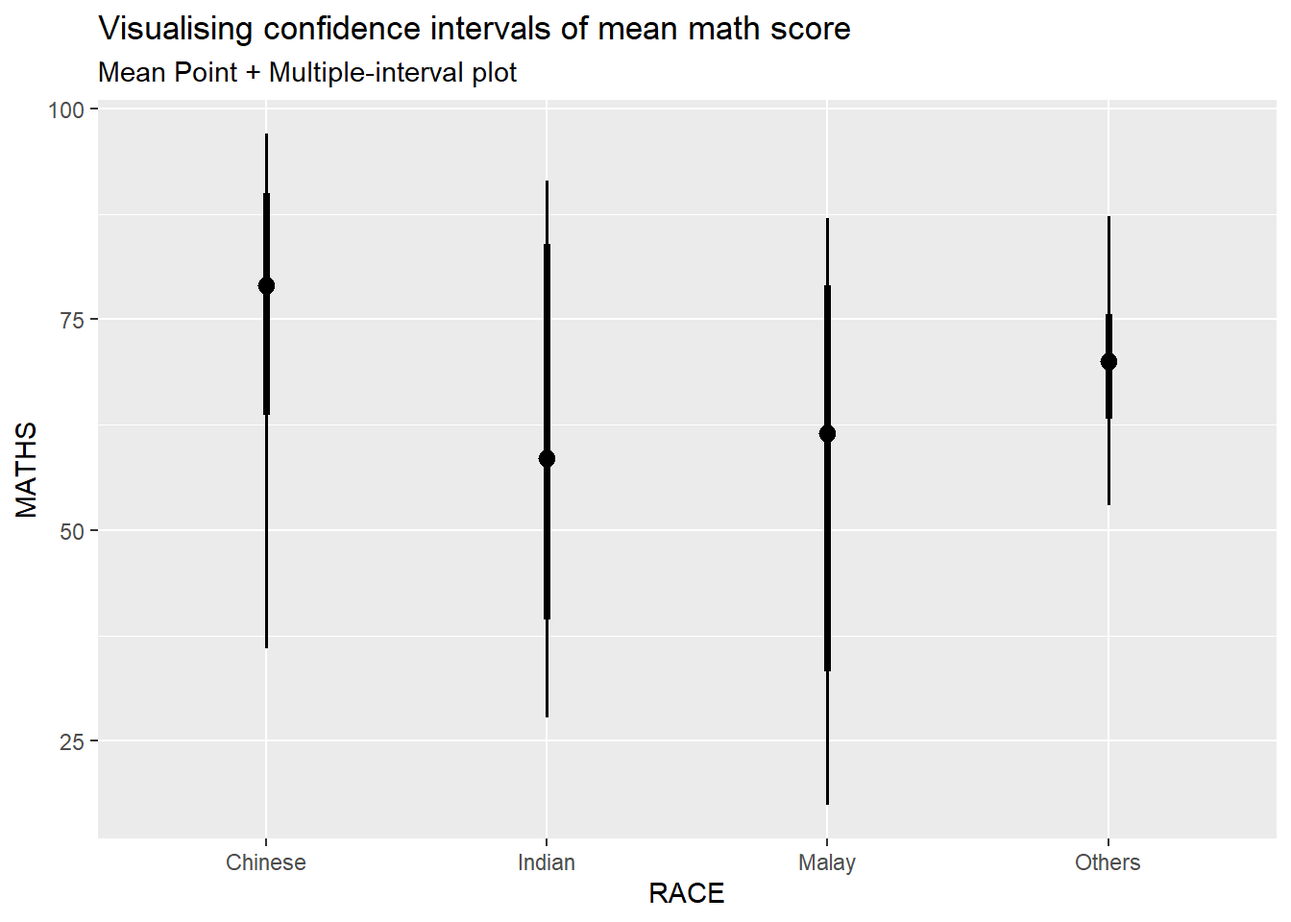
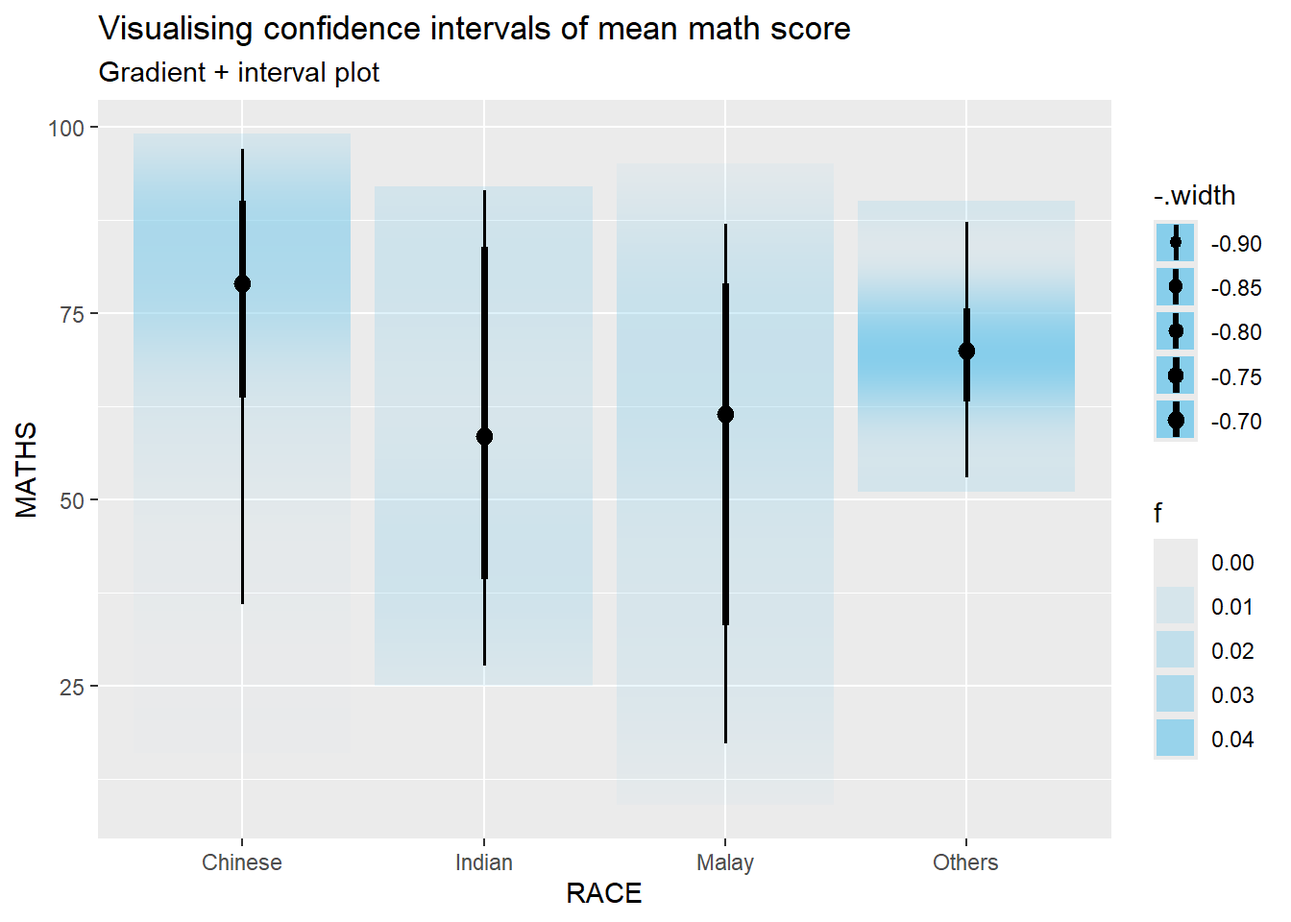
amended

diff --git a/_site/Hands-on_EX/Hands-on_Ex07/Hands-on_Ex07.html b/_site/Hands-on_EX/Hands-on_Ex07/Hands-on_Ex07.html
@@ -202,11 +202,11 @@ pre > code.sourceCode > span > a:first-child::before { text-decoration: underlin
     <ul class="dropdown-menu" aria-labelledby="nav-menu-take-home-exercise">    
         <li>
     <a class="dropdown-item" href="../../Take-home_Ex/Take-home_Ex01/Take-home_Ex01.html">
- <span class="dropdown-text">Take-home Exercise 1</span></a>
+ <span class="dropdown-text">Take-home Exercise 1 phase 1</span></a>
   </li>  
         <li>
     <a class="dropdown-item" href="../../Take-home_Ex/Take-home_Ex02/Take-home_Ex02.html">
- <span class="dropdown-text">Take-home Exercise 2</span></a>
+ <span class="dropdown-text">Take-home Exercise 1 phase 2</span></a>
   </li>  
         <li>
     <a class="dropdown-item" href="../../Take-home_Ex/Take-home_Ex03/Take-home_Ex03.html">
@@ -299,7 +299,7 @@ pre > code.sourceCode > span > a:first-child::before { text-decoration: underlin
     <div>
     <div class="quarto-title-meta-heading">Modified</div>
     <div class="quarto-title-meta-contents">
-      <p class="date-modified">May 7, 2025</p>
+      <p class="date-modified">May 8, 2025</p>
     </div>
   </div>
     
@@ -664,12 +664,12 @@ Things to learn from the above code chunk
 <div class="container-fluid crosstalk-bscols">
 <div class="row">
 <div class="col-xs-4">
-<div class="plotly html-widget html-fill-item" id="htmlwidget-e3760944272059cb3ee2" style="width:100%;height:400px;"></div>
-<script type="application/json" data-for="htmlwidget-e3760944272059cb3ee2">{"x":{"data":[{"x":[1,3,4,2],"y":[76.507772020725383,60.666666666666664,57.444444444444443,69.666666666666671],"text":"","key":["1","2","3","4"],"type":"scatter","mode":"lines","opacity":0.90000000000000002,"line":{"color":"transparent"},"error_y":{"array":[2.9214818033282057,18.165794029639137,5.2713960499886028,9.7819093228264933],"arrayminus":[2.9214818033282057,18.165794029639137,5.2713960499886028,9.7819093228265004],"type":"data","width":21.333333333333353,"symmetric":false,"color":"rgba(0,0,0,1)"},"set":"SharedDatae88389d1","showlegend":false,"xaxis":"x","yaxis":"y","hoverinfo":"text","_isNestedKey":false,"frame":null},{"x":[1,3,4,2],"y":[76.507772020725383,60.666666666666664,57.444444444444443,69.666666666666671],"text":["Race: Chinese <br>N: 193 <br>Avg. Scores: 76.51 <br>95% CI:[ 73.59 , 79.43 ]","Race: Indian <br>N: 12 <br>Avg. Scores: 60.67 <br>95% CI:[ 42.5 , 78.83 ]","Race: Malay <br>N: 108 <br>Avg. Scores: 57.44 <br>95% CI:[ 52.17 , 62.72 ]","Race: Others <br>N: 9 <br>Avg. Scores: 69.67 <br>95% CI:[ 59.88 , 79.45 ]"],"key":["1","2","3","4"],"type":"scatter","mode":"markers","marker":{"autocolorscale":false,"color":"rgba(255,0,0,1)","opacity":1,"size":5.6692913385826778,"symbol":"circle","line":{"width":1.8897637795275593,"color":"rgba(255,0,0,1)"}},"hoveron":"points","set":"SharedDatae88389d1","showlegend":false,"xaxis":"x","yaxis":"y","hoverinfo":"text","_isNestedKey":false,"frame":null}],"layout":{"margin":{"t":43.762557077625573,"r":7.3059360730593621,"b":50.845818773908846,"l":37.260273972602747},"font":{"color":"rgba(0,0,0,1)","family":"","size":14.611872146118724},"title":{"text":"99% Confidence interval of average /<br>maths scores by race","font":{"color":"rgba(0,0,0,1)","family":"","size":17.534246575342465},"x":0,"xref":"paper"},"xaxis":{"domain":[0,1],"automargin":true,"type":"linear","autorange":false,"range":[0.40000000000000002,4.5999999999999996],"tickmode":"array","ticktext":["Chinese","Others","Indian","Malay"],"tickvals":[1,2,3,4],"categoryorder":"array","categoryarray":["Chinese","Others","Indian","Malay"],"nticks":null,"ticks":"","tickcolor":null,"ticklen":3.6529680365296811,"tickwidth":0,"showticklabels":true,"tickfont":{"color":"rgba(77,77,77,1)","family":"","size":11.68949771689498},"tickangle":-45,"showline":false,"linecolor":null,"linewidth":0,"showgrid":true,"gridcolor":"rgba(235,235,235,1)","gridwidth":0.66417600664176002,"zeroline":false,"anchor":"y","title":{"text":"Race","font":{"color":"rgba(0,0,0,1)","family":"","size":14.611872146118724}},"hoverformat":".2f"},"yaxis":{"domain":[0,1],"automargin":true,"type":"linear","autorange":false,"range":[40.653487469404247,81.295961157116452],"tickmode":"array","ticktext":["50","60","70","80"],"tickvals":[50,60,70,80],"categoryorder":"array","categoryarray":["50","60","70","80"],"nticks":null,"ticks":"","tickcolor":null,"ticklen":3.6529680365296811,"tickwidth":0,"showticklabels":true,"tickfont":{"color":"rgba(77,77,77,1)","family":"","size":11.68949771689498},"tickangle":-0,"showline":false,"linecolor":null,"linewidth":0,"showgrid":true,"gridcolor":"rgba(235,235,235,1)","gridwidth":0.66417600664176002,"zeroline":false,"anchor":"x","title":{"text":"Average Scores","font":{"color":"rgba(0,0,0,1)","family":"","size":14.611872146118724}},"hoverformat":".2f"},"shapes":[{"type":"rect","fillcolor":null,"line":{"color":null,"width":0,"linetype":[]},"yref":"paper","xref":"paper","x0":0,"x1":1,"y0":0,"y1":1}],"showlegend":false,"legend":{"bgcolor":null,"bordercolor":null,"borderwidth":0,"font":{"color":"rgba(0,0,0,1)","family":"","size":11.68949771689498}},"hovermode":"closest","barmode":"relative","dragmode":"zoom"},"config":{"doubleClick":"reset","modeBarButtonsToAdd":["hoverclosest","hovercompare"],"showSendToCloud":false},"source":"A","attrs":{"c63811105d12":{"x":{},"ymin":{},"ymax":{},"type":"scatter"},"c6384efd41dc":{"x":{},"y":{},"text":{}}},"cur_data":"c63811105d12","visdat":{"c63811105d12":["function (y) ","x"],"c6384efd41dc":["function (y) ","x"]},"highlight":{"on":"plotly_click","persistent":false,"dynamic":false,"selectize":false,"opacityDim":0.20000000000000001,"selected":{"opacity":1},"debounce":0,"ctGroups":["SharedDatae88389d1"]},"shinyEvents":["plotly_hover","plotly_click","plotly_selected","plotly_relayout","plotly_brushed","plotly_brushing","plotly_clickannotation","plotly_doubleclick","plotly_deselect","plotly_afterplot","plotly_sunburstclick"],"base_url":"https://plot.ly"},"evals":[],"jsHooks":[]}</script>
+<div class="plotly html-widget html-fill-item" id="htmlwidget-bc5137b9450fcd9c2f9f" style="width:100%;height:400px;"></div>
+<script type="application/json" data-for="htmlwidget-bc5137b9450fcd9c2f9f">{"x":{"data":[{"x":[1,3,4,2],"y":[76.507772020725383,60.666666666666664,57.444444444444443,69.666666666666671],"text":"","key":["1","2","3","4"],"type":"scatter","mode":"lines","opacity":0.90000000000000002,"line":{"color":"transparent"},"error_y":{"array":[2.9214818033282057,18.165794029639137,5.2713960499886028,9.7819093228264933],"arrayminus":[2.9214818033282057,18.165794029639137,5.2713960499886028,9.7819093228265004],"type":"data","width":21.333333333333353,"symmetric":false,"color":"rgba(0,0,0,1)"},"set":"SharedData045dd079","showlegend":false,"xaxis":"x","yaxis":"y","hoverinfo":"text","_isNestedKey":false,"frame":null},{"x":[1,3,4,2],"y":[76.507772020725383,60.666666666666664,57.444444444444443,69.666666666666671],"text":["Race: Chinese <br>N: 193 <br>Avg. Scores: 76.51 <br>95% CI:[ 73.59 , 79.43 ]","Race: Indian <br>N: 12 <br>Avg. Scores: 60.67 <br>95% CI:[ 42.5 , 78.83 ]","Race: Malay <br>N: 108 <br>Avg. Scores: 57.44 <br>95% CI:[ 52.17 , 62.72 ]","Race: Others <br>N: 9 <br>Avg. Scores: 69.67 <br>95% CI:[ 59.88 , 79.45 ]"],"key":["1","2","3","4"],"type":"scatter","mode":"markers","marker":{"autocolorscale":false,"color":"rgba(255,0,0,1)","opacity":1,"size":5.6692913385826778,"symbol":"circle","line":{"width":1.8897637795275593,"color":"rgba(255,0,0,1)"}},"hoveron":"points","set":"SharedData045dd079","showlegend":false,"xaxis":"x","yaxis":"y","hoverinfo":"text","_isNestedKey":false,"frame":null}],"layout":{"margin":{"t":43.762557077625573,"r":7.3059360730593621,"b":50.845818773908846,"l":37.260273972602747},"font":{"color":"rgba(0,0,0,1)","family":"","size":14.611872146118724},"title":{"text":"99% Confidence interval of average /<br>maths scores by race","font":{"color":"rgba(0,0,0,1)","family":"","size":17.534246575342465},"x":0,"xref":"paper"},"xaxis":{"domain":[0,1],"automargin":true,"type":"linear","autorange":false,"range":[0.40000000000000002,4.5999999999999996],"tickmode":"array","ticktext":["Chinese","Others","Indian","Malay"],"tickvals":[1,2,3,4],"categoryorder":"array","categoryarray":["Chinese","Others","Indian","Malay"],"nticks":null,"ticks":"","tickcolor":null,"ticklen":3.6529680365296811,"tickwidth":0,"showticklabels":true,"tickfont":{"color":"rgba(77,77,77,1)","family":"","size":11.68949771689498},"tickangle":-45,"showline":false,"linecolor":null,"linewidth":0,"showgrid":true,"gridcolor":"rgba(235,235,235,1)","gridwidth":0.66417600664176002,"zeroline":false,"anchor":"y","title":{"text":"Race","font":{"color":"rgba(0,0,0,1)","family":"","size":14.611872146118724}},"hoverformat":".2f"},"yaxis":{"domain":[0,1],"automargin":true,"type":"linear","autorange":false,"range":[40.653487469404247,81.295961157116452],"tickmode":"array","ticktext":["50","60","70","80"],"tickvals":[50,60,70,80],"categoryorder":"array","categoryarray":["50","60","70","80"],"nticks":null,"ticks":"","tickcolor":null,"ticklen":3.6529680365296811,"tickwidth":0,"showticklabels":true,"tickfont":{"color":"rgba(77,77,77,1)","family":"","size":11.68949771689498},"tickangle":-0,"showline":false,"linecolor":null,"linewidth":0,"showgrid":true,"gridcolor":"rgba(235,235,235,1)","gridwidth":0.66417600664176002,"zeroline":false,"anchor":"x","title":{"text":"Average Scores","font":{"color":"rgba(0,0,0,1)","family":"","size":14.611872146118724}},"hoverformat":".2f"},"shapes":[{"type":"rect","fillcolor":null,"line":{"color":null,"width":0,"linetype":[]},"yref":"paper","xref":"paper","x0":0,"x1":1,"y0":0,"y1":1}],"showlegend":false,"legend":{"bgcolor":null,"bordercolor":null,"borderwidth":0,"font":{"color":"rgba(0,0,0,1)","family":"","size":11.68949771689498}},"hovermode":"closest","barmode":"relative","dragmode":"zoom"},"config":{"doubleClick":"reset","modeBarButtonsToAdd":["hoverclosest","hovercompare"],"showSendToCloud":false},"source":"A","attrs":{"a94c6819105d":{"x":{},"ymin":{},"ymax":{},"type":"scatter"},"a94c11b61271":{"x":{},"y":{},"text":{}}},"cur_data":"a94c6819105d","visdat":{"a94c6819105d":["function (y) ","x"],"a94c11b61271":["function (y) ","x"]},"highlight":{"on":"plotly_click","persistent":false,"dynamic":false,"selectize":false,"opacityDim":0.20000000000000001,"selected":{"opacity":1},"debounce":0,"ctGroups":["SharedData045dd079"]},"shinyEvents":["plotly_hover","plotly_click","plotly_selected","plotly_relayout","plotly_brushed","plotly_brushing","plotly_clickannotation","plotly_doubleclick","plotly_deselect","plotly_afterplot","plotly_sunburstclick"],"base_url":"https://plot.ly"},"evals":[],"jsHooks":[]}</script>
 </div>
 <div class="col-xs-8">
-<div id="htmlwidget-d1ff6ed2748f6dd4f709" style="width:100%;height:auto;" class="datatables html-widget"></div>
-<script type="application/json" data-for="htmlwidget-d1ff6ed2748f6dd4f709">{"x":{"crosstalkOptions":{"key":["1","2","3","4"],"group":"SharedDatae88389d1"},"filter":"none","vertical":false,"data":[["Chinese","Indian","Malay","Others"],[193,12,108,9],[76.50777202072538,60.66666666666666,57.44444444444444,69.66666666666667],[15.69040284264306,23.35237318418266,21.13478478068458,10.72380529476361],[1.132357288111705,7.041005437844626,2.043176763561474,3.791437722025775]],"container":"<table class=\"compact\">\n  <thead>\n    <tr>\n      <th> <\/th>\n      <th>No. of pupils<\/th>\n      <th>Avg Scores<\/th>\n      <th>Std Dev<\/th>\n      <th>Std Error<\/th>\n    <\/tr>\n  <\/thead>\n<\/table>","options":{"pageLength":10,"scrollX":true,"columnDefs":[{"targets":2,"render":"function(data, type, row, meta) {\n    return type !== 'display' ? data : DTWidget.formatRound(data, 2, 3, \",\", \".\", null);\n  }"},{"targets":3,"render":"function(data, type, row, meta) {\n    return type !== 'display' ? data : DTWidget.formatRound(data, 2, 3, \",\", \".\", null);\n  }"},{"targets":4,"render":"function(data, type, row, meta) {\n    return type !== 'display' ? data : DTWidget.formatRound(data, 2, 3, \",\", \".\", null);\n  }"},{"className":"dt-right","targets":[1,2,3,4]},{"orderable":false,"targets":0},{"name":"RACE","targets":0},{"name":"n","targets":1},{"name":"mean","targets":2},{"name":"sd","targets":3},{"name":"se","targets":4}],"order":[],"autoWidth":false,"orderClasses":false},"selection":{"mode":"multiple","selected":null,"target":"row","selectable":null}},"evals":["options.columnDefs.0.render","options.columnDefs.1.render","options.columnDefs.2.render"],"jsHooks":[]}</script>
+<div id="htmlwidget-64ffa2680ae2a4fc0a07" style="width:100%;height:auto;" class="datatables html-widget"></div>
+<script type="application/json" data-for="htmlwidget-64ffa2680ae2a4fc0a07">{"x":{"crosstalkOptions":{"key":["1","2","3","4"],"group":"SharedData045dd079"},"filter":"none","vertical":false,"data":[["Chinese","Indian","Malay","Others"],[193,12,108,9],[76.50777202072538,60.66666666666666,57.44444444444444,69.66666666666667],[15.69040284264306,23.35237318418266,21.13478478068458,10.72380529476361],[1.132357288111705,7.041005437844626,2.043176763561474,3.791437722025775]],"container":"<table class=\"compact\">\n  <thead>\n    <tr>\n      <th> <\/th>\n      <th>No. of pupils<\/th>\n      <th>Avg Scores<\/th>\n      <th>Std Dev<\/th>\n      <th>Std Error<\/th>\n    <\/tr>\n  <\/thead>\n<\/table>","options":{"pageLength":10,"scrollX":true,"columnDefs":[{"targets":2,"render":"function(data, type, row, meta) {\n    return type !== 'display' ? data : DTWidget.formatRound(data, 2, 3, \",\", \".\", null);\n  }"},{"targets":3,"render":"function(data, type, row, meta) {\n    return type !== 'display' ? data : DTWidget.formatRound(data, 2, 3, \",\", \".\", null);\n  }"},{"targets":4,"render":"function(data, type, row, meta) {\n    return type !== 'display' ? data : DTWidget.formatRound(data, 2, 3, \",\", \".\", null);\n  }"},{"className":"dt-right","targets":[1,2,3,4]},{"orderable":false,"targets":0},{"name":"RACE","targets":0},{"name":"n","targets":1},{"name":"mean","targets":2},{"name":"sd","targets":3},{"name":"se","targets":4}],"order":[],"autoWidth":false,"orderClasses":false},"selection":{"mode":"multiple","selected":null,"target":"row","selectable":null}},"evals":["options.columnDefs.0.render","options.columnDefs.1.render","options.columnDefs.2.render"],"jsHooks":[]}</script>
 </div>
 </div>
 </div>
@@ -772,113 +772,23 @@ Note
 <section id="visualizing-the-uncertainty-of-point-estimates-ggdist-methods-1" class="level3">
 <h3 class="anchored" data-anchor-id="visualizing-the-uncertainty-of-point-estimates-ggdist-methods-1"><strong>7.4.2 Visualizing the uncertainty of point estimates: ggdist methods</strong></h3>
 <p>showing 95% and 99% confidence intervals.</p>
-<div class="tabset-margin-container"></div><div class="panel-tabset">
-<ul class="nav nav-tabs" role="tablist"><li class="nav-item" role="presentation"><a class="nav-link active" id="tabset-7-1-tab" data-bs-toggle="tab" data-bs-target="#tabset-7-1" role="tab" aria-controls="tabset-7-1" aria-selected="true">The code chunk</a></li><li class="nav-item" role="presentation"><a class="nav-link" id="tabset-7-2-tab" data-bs-toggle="tab" data-bs-target="#tabset-7-2" role="tab" aria-controls="tabset-7-2" aria-selected="false">The Plot</a></li></ul>
-<div class="tab-content">
-<div id="tabset-7-1" class="tab-pane active" role="tabpanel" aria-labelledby="tabset-7-1-tab">
 <div class="cell">
 <div class="sourceCode cell-code" id="cb11"><pre class="sourceCode r code-with-copy"><code class="sourceCode r"><span id="cb11-1"><a href="#cb11-1" aria-hidden="true" tabindex="-1"></a>exam <span class="sc">%&gt;%</span></span>
-<span id="cb11-2"><a href="#cb11-2" aria-hidden="true" tabindex="-1"></a>  <span class="fu">ggplot</span>(<span class="fu">aes</span>(<span class="at">x =</span> RACE, </span>
-<span id="cb11-3"><a href="#cb11-3" aria-hidden="true" tabindex="-1"></a>             <span class="at">y =</span> MATHS)) <span class="sc">+</span></span>
-<span id="cb11-4"><a href="#cb11-4" aria-hidden="true" tabindex="-1"></a>  <span class="fu">stat_pointinterval</span>(</span>
-<span id="cb11-5"><a href="#cb11-5" aria-hidden="true" tabindex="-1"></a>    <span class="at">show.legend =</span> <span class="cn">FALSE</span>) <span class="sc">+</span>   </span>
-<span id="cb11-6"><a href="#cb11-6" aria-hidden="true" tabindex="-1"></a>  <span class="fu">labs</span>(</span>
-<span id="cb11-7"><a href="#cb11-7" aria-hidden="true" tabindex="-1"></a>    <span class="at">title =</span> <span class="st">"Visualising confidence intervals of mean math score"</span>,</span>
-<span id="cb11-8"><a href="#cb11-8" aria-hidden="true" tabindex="-1"></a>    <span class="at">subtitle =</span> <span class="st">"Mean Point + Multiple-interval plot"</span>)</span></code><button title="Copy to Clipboard" class="code-copy-button"><i class="bi"></i></button></pre></div>
-</div>
-</div>
-<div id="tabset-7-2" class="tab-pane" role="tabpanel" aria-labelledby="tabset-7-2-tab">
-<div class="cell">
+<span id="cb11-2"><a href="#cb11-2" aria-hidden="true" tabindex="-1"></a>  <span class="fu">ggplot</span>(<span class="fu">aes</span>(<span class="at">x =</span> RACE, <span class="at">y =</span> MATHS)) <span class="sc">+</span></span>
+<span id="cb11-3"><a href="#cb11-3" aria-hidden="true" tabindex="-1"></a>  <span class="fu">stat_pointinterval</span>(</span>
+<span id="cb11-4"><a href="#cb11-4" aria-hidden="true" tabindex="-1"></a>    <span class="at">.width    =</span> <span class="fu">c</span>(<span class="fl">0.95</span>, <span class="fl">0.99</span>),  <span class="co"># inner = 95%, outer = 99%</span></span>
+<span id="cb11-5"><a href="#cb11-5" aria-hidden="true" tabindex="-1"></a>    <span class="at">.point    =</span> median,         <span class="co"># central estimate = median</span></span>
+<span id="cb11-6"><a href="#cb11-6" aria-hidden="true" tabindex="-1"></a>    <span class="at">.interval =</span> qi              <span class="co"># quantile‐interval for CIs</span></span>
+<span id="cb11-7"><a href="#cb11-7" aria-hidden="true" tabindex="-1"></a>  ) <span class="sc">+</span></span>
+<span id="cb11-8"><a href="#cb11-8" aria-hidden="true" tabindex="-1"></a>  <span class="fu">labs</span>(</span>
+<span id="cb11-9"><a href="#cb11-9" aria-hidden="true" tabindex="-1"></a>    <span class="at">title    =</span> <span class="st">"Visualising confidence intervals of median math score"</span>,</span>
+<span id="cb11-10"><a href="#cb11-10" aria-hidden="true" tabindex="-1"></a>    <span class="at">subtitle =</span> <span class="st">"Median point + 95% &amp; 99% intervals"</span></span>
+<span id="cb11-11"><a href="#cb11-11" aria-hidden="true" tabindex="-1"></a>  ) <span class="sc">+</span></span>
+<span id="cb11-12"><a href="#cb11-12" aria-hidden="true" tabindex="-1"></a>  <span class="fu">theme_minimal</span>()</span></code><button title="Copy to Clipboard" class="code-copy-button"><i class="bi"></i></button></pre></div>
 <div class="cell-output-display">
 <div>
 <figure class="figure">
-<p><img src="Hands-on_Ex07_files/figure-html/unnamed-chunk-17-1.png" class="img-fluid figure-img" width="672"></p>
-</figure>
-</div>
-</div>
-</div>
-</div>
-</div>
-</div>
-<div class="tabset-margin-container"></div><div class="panel-tabset">
-<ul class="nav nav-tabs" role="tablist"><li class="nav-item" role="presentation"><a class="nav-link active" id="tabset-8-1-tab" data-bs-toggle="tab" data-bs-target="#tabset-8-1" role="tab" aria-controls="tabset-8-1" aria-selected="true">95% confidence interval</a></li><li class="nav-item" role="presentation"><a class="nav-link" id="tabset-8-2-tab" data-bs-toggle="tab" data-bs-target="#tabset-8-2" role="tab" aria-controls="tabset-8-2" aria-selected="false">For 99% confidence interval</a></li></ul>
-<div class="tab-content">
-<div id="tabset-8-1" class="tab-pane active" role="tabpanel" aria-labelledby="tabset-8-1-tab">
-<div class="cell">
-<div class="sourceCode cell-code" id="cb12"><pre class="sourceCode r code-with-copy"><code class="sourceCode r"><span id="cb12-1"><a href="#cb12-1" aria-hidden="true" tabindex="-1"></a>p95 <span class="ot">&lt;-</span> <span class="fu">ggplot</span>(exam, <span class="fu">aes</span>(</span>
-<span id="cb12-2"><a href="#cb12-2" aria-hidden="true" tabindex="-1"></a>    <span class="at">x =</span> <span class="fu">reorder</span>(RACE, MATHS, <span class="at">FUN =</span> mean, <span class="at">.desc =</span> <span class="cn">TRUE</span>),</span>
-<span id="cb12-3"><a href="#cb12-3" aria-hidden="true" tabindex="-1"></a>    <span class="at">y =</span> MATHS</span>
-<span id="cb12-4"><a href="#cb12-4" aria-hidden="true" tabindex="-1"></a>  )) <span class="sc">+</span></span>
-<span id="cb12-5"><a href="#cb12-5" aria-hidden="true" tabindex="-1"></a>  <span class="fu">stat_pointinterval</span>(</span>
-<span id="cb12-6"><a href="#cb12-6" aria-hidden="true" tabindex="-1"></a>    <span class="at">.width       =</span> <span class="fl">0.95</span>,      </span>
-<span id="cb12-7"><a href="#cb12-7" aria-hidden="true" tabindex="-1"></a>    <span class="at">point_size   =</span> <span class="fl">1.5</span>,       </span>
-<span id="cb12-8"><a href="#cb12-8" aria-hidden="true" tabindex="-1"></a>    <span class="at">interval_size =</span> <span class="fl">0.5</span>,      </span>
-<span id="cb12-9"><a href="#cb12-9" aria-hidden="true" tabindex="-1"></a>    <span class="at">color        =</span> <span class="st">"red"</span>,     </span>
-<span id="cb12-10"><a href="#cb12-10" aria-hidden="true" tabindex="-1"></a>    <span class="at">fill         =</span> <span class="st">"steelblue"</span>,</span>
-<span id="cb12-11"><a href="#cb12-11" aria-hidden="true" tabindex="-1"></a>    <span class="at">show.legend  =</span> <span class="cn">FALSE</span></span>
-<span id="cb12-12"><a href="#cb12-12" aria-hidden="true" tabindex="-1"></a>  ) <span class="sc">+</span></span>
-<span id="cb12-13"><a href="#cb12-13" aria-hidden="true" tabindex="-1"></a>  <span class="fu">labs</span>(</span>
-<span id="cb12-14"><a href="#cb12-14" aria-hidden="true" tabindex="-1"></a>    <span class="at">x     =</span> <span class="st">"Race"</span>,</span>
-<span id="cb12-15"><a href="#cb12-15" aria-hidden="true" tabindex="-1"></a>    <span class="at">y     =</span> <span class="st">"Maths score"</span>,</span>
-<span id="cb12-16"><a href="#cb12-16" aria-hidden="true" tabindex="-1"></a>    <span class="at">title =</span> <span class="st">"95% CI of mean maths score by race"</span></span>
-<span id="cb12-17"><a href="#cb12-17" aria-hidden="true" tabindex="-1"></a>  ) <span class="sc">+</span></span>
-<span id="cb12-18"><a href="#cb12-18" aria-hidden="true" tabindex="-1"></a>  <span class="fu">theme_minimal</span>()</span>
-<span id="cb12-19"><a href="#cb12-19" aria-hidden="true" tabindex="-1"></a></span>
-<span id="cb12-20"><a href="#cb12-20" aria-hidden="true" tabindex="-1"></a><span class="fu">print</span>(p95)</span></code><button title="Copy to Clipboard" class="code-copy-button"><i class="bi"></i></button></pre></div>
-<div class="cell-output-display">
-<div>
-<figure class="figure">
-<p><img src="Hands-on_Ex07_files/figure-html/unnamed-chunk-18-1.png" class="img-fluid figure-img" width="672"></p>
-</figure>
-</div>
-</div>
-</div>
-</div>
-<div id="tabset-8-2" class="tab-pane" role="tabpanel" aria-labelledby="tabset-8-2-tab">
-<div class="cell">
-<div class="sourceCode cell-code" id="cb13"><pre class="sourceCode r code-with-copy"><code class="sourceCode r"><span id="cb13-1"><a href="#cb13-1" aria-hidden="true" tabindex="-1"></a>p99 <span class="ot">&lt;-</span> <span class="fu">ggplot</span>(exam, <span class="fu">aes</span>(</span>
-<span id="cb13-2"><a href="#cb13-2" aria-hidden="true" tabindex="-1"></a>    <span class="at">x =</span> <span class="fu">reorder</span>(RACE, MATHS, <span class="at">FUN =</span> mean, <span class="at">.desc =</span> <span class="cn">TRUE</span>),</span>
-<span id="cb13-3"><a href="#cb13-3" aria-hidden="true" tabindex="-1"></a>    <span class="at">y =</span> MATHS</span>
-<span id="cb13-4"><a href="#cb13-4" aria-hidden="true" tabindex="-1"></a>  )) <span class="sc">+</span></span>
-<span id="cb13-5"><a href="#cb13-5" aria-hidden="true" tabindex="-1"></a>  <span class="fu">stat_pointinterval</span>(</span>
-<span id="cb13-6"><a href="#cb13-6" aria-hidden="true" tabindex="-1"></a>    <span class="at">.width       =</span> <span class="fl">0.99</span>,      </span>
-<span id="cb13-7"><a href="#cb13-7" aria-hidden="true" tabindex="-1"></a>    <span class="at">point_size   =</span> <span class="fl">1.5</span>,       </span>
-<span id="cb13-8"><a href="#cb13-8" aria-hidden="true" tabindex="-1"></a>    <span class="at">interval_size =</span> <span class="fl">0.5</span>,      </span>
-<span id="cb13-9"><a href="#cb13-9" aria-hidden="true" tabindex="-1"></a>    <span class="at">color        =</span> <span class="st">"red"</span>,     </span>
-<span id="cb13-10"><a href="#cb13-10" aria-hidden="true" tabindex="-1"></a>    <span class="at">fill         =</span> <span class="st">"steelblue"</span>,</span>
-<span id="cb13-11"><a href="#cb13-11" aria-hidden="true" tabindex="-1"></a>    <span class="at">show.legend  =</span> <span class="cn">FALSE</span></span>
-<span id="cb13-12"><a href="#cb13-12" aria-hidden="true" tabindex="-1"></a>  ) <span class="sc">+</span></span>
-<span id="cb13-13"><a href="#cb13-13" aria-hidden="true" tabindex="-1"></a>  <span class="fu">labs</span>(</span>
-<span id="cb13-14"><a href="#cb13-14" aria-hidden="true" tabindex="-1"></a>    <span class="at">x     =</span> <span class="st">"Race"</span>,</span>
-<span id="cb13-15"><a href="#cb13-15" aria-hidden="true" tabindex="-1"></a>    <span class="at">y     =</span> <span class="st">"Maths score"</span>,</span>
-<span id="cb13-16"><a href="#cb13-16" aria-hidden="true" tabindex="-1"></a>    <span class="at">title =</span> <span class="st">"99% CI of mean maths score by race"</span></span>
-<span id="cb13-17"><a href="#cb13-17" aria-hidden="true" tabindex="-1"></a>  ) <span class="sc">+</span></span>
-<span id="cb13-18"><a href="#cb13-18" aria-hidden="true" tabindex="-1"></a>  <span class="fu">theme_minimal</span>()</span>
-<span id="cb13-19"><a href="#cb13-19" aria-hidden="true" tabindex="-1"></a><span class="fu">print</span>(p99)</span></code><button title="Copy to Clipboard" class="code-copy-button"><i class="bi"></i></button></pre></div>
-<div class="cell-output-display">
-<div>
-<figure class="figure">
-<p><img src="Hands-on_Ex07_files/figure-html/unnamed-chunk-19-1.png" class="img-fluid figure-img" width="672"></p>
-</figure>
-</div>
-</div>
-</div>
-</div>
-</div>
-</div>
-<div class="cell">
-<div class="sourceCode cell-code" id="cb14"><pre class="sourceCode r code-with-copy"><code class="sourceCode r"><span id="cb14-1"><a href="#cb14-1" aria-hidden="true" tabindex="-1"></a>exam <span class="sc">%&gt;%</span></span>
-<span id="cb14-2"><a href="#cb14-2" aria-hidden="true" tabindex="-1"></a>  <span class="fu">ggplot</span>(<span class="fu">aes</span>(<span class="at">x =</span> RACE, <span class="at">y =</span> MATHS)) <span class="sc">+</span></span>
-<span id="cb14-3"><a href="#cb14-3" aria-hidden="true" tabindex="-1"></a>  <span class="fu">stat_pointinterval</span>(<span class="at">.width =</span> <span class="fl">0.99</span>,</span>
-<span id="cb14-4"><a href="#cb14-4" aria-hidden="true" tabindex="-1"></a>  <span class="at">.point =</span> median,</span>
-<span id="cb14-5"><a href="#cb14-5" aria-hidden="true" tabindex="-1"></a>  <span class="at">.interval =</span> qi) <span class="sc">+</span></span>
-<span id="cb14-6"><a href="#cb14-6" aria-hidden="true" tabindex="-1"></a>  <span class="fu">labs</span>(</span>
-<span id="cb14-7"><a href="#cb14-7" aria-hidden="true" tabindex="-1"></a>    <span class="at">title =</span> <span class="st">"Visualising confidence intervals of median math score"</span>,</span>
-<span id="cb14-8"><a href="#cb14-8" aria-hidden="true" tabindex="-1"></a>    <span class="at">subtitle =</span> <span class="st">"Median Point + Multiple-interval plot"</span>)</span></code><button title="Copy to Clipboard" class="code-copy-button"><i class="bi"></i></button></pre></div>
-<div class="cell-output-display">
-<div>
-<figure class="figure">
-<p><img src="Hands-on_Ex07_files/figure-html/unnamed-chunk-20-1.png" class="img-fluid figure-img" width="672"></p>
+<p><img src="Hands-on_Ex07_files/figure-html/unnamed-chunk-16-1.png" class="img-fluid figure-img" width="672"></p>
 </figure>
 </div>
 </div>
@@ -888,20 +798,20 @@ Note
 <h3 class="anchored" data-anchor-id="visualizing-the-uncertainty-of-point-estimates-ggdist-methods-2"><strong>7.4.3 Visualizing the uncertainty of point estimates: ggdist methods</strong></h3>
 <p>In the code chunk below,&nbsp;<a href="https://mjskay.github.io/ggdist/reference/stat_gradientinterval.html"><code>stat_gradientinterval()</code></a>&nbsp;of&nbsp;<strong>ggdist</strong>&nbsp;is used to build a visual for displaying distribution of maths scores by race.</p>
 <div class="cell">
-<div class="sourceCode cell-code" id="cb15"><pre class="sourceCode r code-with-copy"><code class="sourceCode r"><span id="cb15-1"><a href="#cb15-1" aria-hidden="true" tabindex="-1"></a>exam <span class="sc">%&gt;%</span></span>
-<span id="cb15-2"><a href="#cb15-2" aria-hidden="true" tabindex="-1"></a>  <span class="fu">ggplot</span>(<span class="fu">aes</span>(<span class="at">x =</span> RACE, </span>
-<span id="cb15-3"><a href="#cb15-3" aria-hidden="true" tabindex="-1"></a>             <span class="at">y =</span> MATHS)) <span class="sc">+</span></span>
-<span id="cb15-4"><a href="#cb15-4" aria-hidden="true" tabindex="-1"></a>  <span class="fu">stat_gradientinterval</span>(   </span>
-<span id="cb15-5"><a href="#cb15-5" aria-hidden="true" tabindex="-1"></a>    <span class="at">fill =</span> <span class="st">"skyblue"</span>,      </span>
-<span id="cb15-6"><a href="#cb15-6" aria-hidden="true" tabindex="-1"></a>    <span class="at">show.legend =</span> <span class="cn">TRUE</span>     </span>
-<span id="cb15-7"><a href="#cb15-7" aria-hidden="true" tabindex="-1"></a>  ) <span class="sc">+</span>                        </span>
-<span id="cb15-8"><a href="#cb15-8" aria-hidden="true" tabindex="-1"></a>  <span class="fu">labs</span>(</span>
-<span id="cb15-9"><a href="#cb15-9" aria-hidden="true" tabindex="-1"></a>    <span class="at">title =</span> <span class="st">"Visualising confidence intervals of mean math score"</span>,</span>
-<span id="cb15-10"><a href="#cb15-10" aria-hidden="true" tabindex="-1"></a>    <span class="at">subtitle =</span> <span class="st">"Gradient + interval plot"</span>)</span></code><button title="Copy to Clipboard" class="code-copy-button"><i class="bi"></i></button></pre></div>
+<div class="sourceCode cell-code" id="cb12"><pre class="sourceCode r code-with-copy"><code class="sourceCode r"><span id="cb12-1"><a href="#cb12-1" aria-hidden="true" tabindex="-1"></a>exam <span class="sc">%&gt;%</span></span>
+<span id="cb12-2"><a href="#cb12-2" aria-hidden="true" tabindex="-1"></a>  <span class="fu">ggplot</span>(<span class="fu">aes</span>(<span class="at">x =</span> RACE, </span>
+<span id="cb12-3"><a href="#cb12-3" aria-hidden="true" tabindex="-1"></a>             <span class="at">y =</span> MATHS)) <span class="sc">+</span></span>
+<span id="cb12-4"><a href="#cb12-4" aria-hidden="true" tabindex="-1"></a>  <span class="fu">stat_gradientinterval</span>(   </span>
+<span id="cb12-5"><a href="#cb12-5" aria-hidden="true" tabindex="-1"></a>    <span class="at">fill =</span> <span class="st">"skyblue"</span>,      </span>
+<span id="cb12-6"><a href="#cb12-6" aria-hidden="true" tabindex="-1"></a>    <span class="at">show.legend =</span> <span class="cn">TRUE</span>     </span>
+<span id="cb12-7"><a href="#cb12-7" aria-hidden="true" tabindex="-1"></a>  ) <span class="sc">+</span>                        </span>
+<span id="cb12-8"><a href="#cb12-8" aria-hidden="true" tabindex="-1"></a>  <span class="fu">labs</span>(</span>
+<span id="cb12-9"><a href="#cb12-9" aria-hidden="true" tabindex="-1"></a>    <span class="at">title =</span> <span class="st">"Visualising confidence intervals of mean math score"</span>,</span>
+<span id="cb12-10"><a href="#cb12-10" aria-hidden="true" tabindex="-1"></a>    <span class="at">subtitle =</span> <span class="st">"Gradient + interval plot"</span>)</span></code><button title="Copy to Clipboard" class="code-copy-button"><i class="bi"></i></button></pre></div>
 <div class="cell-output-display">
 <div>
 <figure class="figure">
-<p><img src="Hands-on_Ex07_files/figure-html/unnamed-chunk-21-1.png" class="img-fluid figure-img" width="672"></p>
+<p><img src="Hands-on_Ex07_files/figure-html/unnamed-chunk-17-1.png" class="img-fluid figure-img" width="672"></p>
 </figure>
 </div>
 </div>
@@ -913,37 +823,37 @@ Note
 <section id="installing-ungeviz-package" class="level3">
 <h3 class="anchored" data-anchor-id="installing-ungeviz-package"><strong>7.5.1 Installing ungeviz package</strong></h3>
 <div class="cell">
-<div class="sourceCode cell-code" id="cb16"><pre class="sourceCode r code-with-copy"><code class="sourceCode r"><span id="cb16-1"><a href="#cb16-1" aria-hidden="true" tabindex="-1"></a>devtools<span class="sc">::</span><span class="fu">install_github</span>(<span class="st">"wilkelab/ungeviz"</span>)</span></code><button title="Copy to Clipboard" class="code-copy-button"><i class="bi"></i></button></pre></div>
+<div class="sourceCode cell-code" id="cb13"><pre class="sourceCode r code-with-copy"><code class="sourceCode r"><span id="cb13-1"><a href="#cb13-1" aria-hidden="true" tabindex="-1"></a>devtools<span class="sc">::</span><span class="fu">install_github</span>(<span class="st">"wilkelab/ungeviz"</span>)</span></code><button title="Copy to Clipboard" class="code-copy-button"><i class="bi"></i></button></pre></div>
 </div>
 </section>
 <section id="launch-the-application-in-r" class="level3">
 <h3 class="anchored" data-anchor-id="launch-the-application-in-r"><strong>7.5.2 Launch the application in R</strong></h3>
 <div class="cell">
-<div class="sourceCode cell-code" id="cb17"><pre class="sourceCode r code-with-copy"><code class="sourceCode r"><span id="cb17-1"><a href="#cb17-1" aria-hidden="true" tabindex="-1"></a><span class="fu">library</span>(ungeviz)</span></code><button title="Copy to Clipboard" class="code-copy-button"><i class="bi"></i></button></pre></div>
+<div class="sourceCode cell-code" id="cb14"><pre class="sourceCode r code-with-copy"><code class="sourceCode r"><span id="cb14-1"><a href="#cb14-1" aria-hidden="true" tabindex="-1"></a><span class="fu">library</span>(ungeviz)</span></code><button title="Copy to Clipboard" class="code-copy-button"><i class="bi"></i></button></pre></div>
 </div>
 </section>
 <section id="visualising-uncertainty-with-hypothetical-outcome-plots-hops-1" class="level3">
 <h3 class="anchored" data-anchor-id="visualising-uncertainty-with-hypothetical-outcome-plots-hops-1"><strong>7.5.3 Visualising Uncertainty with Hypothetical Outcome Plots (HOPs)</strong></h3>
 <div class="cell">
-<div class="sourceCode cell-code" id="cb18"><pre class="sourceCode r code-with-copy"><code class="sourceCode r"><span id="cb18-1"><a href="#cb18-1" aria-hidden="true" tabindex="-1"></a><span class="fu">ggplot</span>(<span class="at">data =</span> exam, </span>
-<span id="cb18-2"><a href="#cb18-2" aria-hidden="true" tabindex="-1"></a>       (<span class="fu">aes</span>(<span class="at">x =</span> <span class="fu">factor</span>(RACE), </span>
-<span id="cb18-3"><a href="#cb18-3" aria-hidden="true" tabindex="-1"></a>            <span class="at">y =</span> MATHS))) <span class="sc">+</span></span>
-<span id="cb18-4"><a href="#cb18-4" aria-hidden="true" tabindex="-1"></a>  <span class="fu">geom_point</span>(<span class="at">position =</span> <span class="fu">position_jitter</span>(</span>
-<span id="cb18-5"><a href="#cb18-5" aria-hidden="true" tabindex="-1"></a>    <span class="at">height =</span> <span class="fl">0.3</span>, </span>
-<span id="cb18-6"><a href="#cb18-6" aria-hidden="true" tabindex="-1"></a>    <span class="at">width =</span> <span class="fl">0.05</span>), </span>
-<span id="cb18-7"><a href="#cb18-7" aria-hidden="true" tabindex="-1"></a>    <span class="at">size =</span> <span class="fl">0.4</span>, </span>
-<span id="cb18-8"><a href="#cb18-8" aria-hidden="true" tabindex="-1"></a>    <span class="at">color =</span> <span class="st">"#0072B2"</span>, </span>
-<span id="cb18-9"><a href="#cb18-9" aria-hidden="true" tabindex="-1"></a>    <span class="at">alpha =</span> <span class="dv">1</span><span class="sc">/</span><span class="dv">2</span>) <span class="sc">+</span></span>
-<span id="cb18-10"><a href="#cb18-10" aria-hidden="true" tabindex="-1"></a>  <span class="fu">geom_hpline</span>(<span class="at">data =</span> <span class="fu">sampler</span>(<span class="dv">25</span>, </span>
-<span id="cb18-11"><a href="#cb18-11" aria-hidden="true" tabindex="-1"></a>                             <span class="at">group =</span> RACE), </span>
-<span id="cb18-12"><a href="#cb18-12" aria-hidden="true" tabindex="-1"></a>              <span class="at">height =</span> <span class="fl">0.6</span>, </span>
-<span id="cb18-13"><a href="#cb18-13" aria-hidden="true" tabindex="-1"></a>              <span class="at">color =</span> <span class="st">"#D55E00"</span>) <span class="sc">+</span></span>
-<span id="cb18-14"><a href="#cb18-14" aria-hidden="true" tabindex="-1"></a>  <span class="fu">theme_bw</span>() <span class="sc">+</span> </span>
-<span id="cb18-15"><a href="#cb18-15" aria-hidden="true" tabindex="-1"></a>  <span class="fu">transition_states</span>(.draw, <span class="dv">1</span>, <span class="dv">3</span>)</span></code><button title="Copy to Clipboard" class="code-copy-button"><i class="bi"></i></button></pre></div>
+<div class="sourceCode cell-code" id="cb15"><pre class="sourceCode r code-with-copy"><code class="sourceCode r"><span id="cb15-1"><a href="#cb15-1" aria-hidden="true" tabindex="-1"></a><span class="fu">ggplot</span>(<span class="at">data =</span> exam, </span>
+<span id="cb15-2"><a href="#cb15-2" aria-hidden="true" tabindex="-1"></a>       (<span class="fu">aes</span>(<span class="at">x =</span> <span class="fu">factor</span>(RACE), </span>
+<span id="cb15-3"><a href="#cb15-3" aria-hidden="true" tabindex="-1"></a>            <span class="at">y =</span> MATHS))) <span class="sc">+</span></span>
+<span id="cb15-4"><a href="#cb15-4" aria-hidden="true" tabindex="-1"></a>  <span class="fu">geom_point</span>(<span class="at">position =</span> <span class="fu">position_jitter</span>(</span>
+<span id="cb15-5"><a href="#cb15-5" aria-hidden="true" tabindex="-1"></a>    <span class="at">height =</span> <span class="fl">0.3</span>, </span>
+<span id="cb15-6"><a href="#cb15-6" aria-hidden="true" tabindex="-1"></a>    <span class="at">width =</span> <span class="fl">0.05</span>), </span>
+<span id="cb15-7"><a href="#cb15-7" aria-hidden="true" tabindex="-1"></a>    <span class="at">size =</span> <span class="fl">0.4</span>, </span>
+<span id="cb15-8"><a href="#cb15-8" aria-hidden="true" tabindex="-1"></a>    <span class="at">color =</span> <span class="st">"#0072B2"</span>, </span>
+<span id="cb15-9"><a href="#cb15-9" aria-hidden="true" tabindex="-1"></a>    <span class="at">alpha =</span> <span class="dv">1</span><span class="sc">/</span><span class="dv">2</span>) <span class="sc">+</span></span>
+<span id="cb15-10"><a href="#cb15-10" aria-hidden="true" tabindex="-1"></a>  <span class="fu">geom_hpline</span>(<span class="at">data =</span> <span class="fu">sampler</span>(<span class="dv">25</span>, </span>
+<span id="cb15-11"><a href="#cb15-11" aria-hidden="true" tabindex="-1"></a>                             <span class="at">group =</span> RACE), </span>
+<span id="cb15-12"><a href="#cb15-12" aria-hidden="true" tabindex="-1"></a>              <span class="at">height =</span> <span class="fl">0.6</span>, </span>
+<span id="cb15-13"><a href="#cb15-13" aria-hidden="true" tabindex="-1"></a>              <span class="at">color =</span> <span class="st">"#D55E00"</span>) <span class="sc">+</span></span>
+<span id="cb15-14"><a href="#cb15-14" aria-hidden="true" tabindex="-1"></a>  <span class="fu">theme_bw</span>() <span class="sc">+</span> </span>
+<span id="cb15-15"><a href="#cb15-15" aria-hidden="true" tabindex="-1"></a>  <span class="fu">transition_states</span>(.draw, <span class="dv">1</span>, <span class="dv">3</span>)</span></code><button title="Copy to Clipboard" class="code-copy-button"><i class="bi"></i></button></pre></div>
 <div class="cell-output-display">
 <div>
 <figure class="figure">
-<p><img src="Hands-on_Ex07_files/figure-html/unnamed-chunk-24-1.gif" class="img-fluid figure-img"></p>
+<p><img src="Hands-on_Ex07_files/figure-html/unnamed-chunk-20-1.gif" class="img-fluid figure-img"></p>
 </figure>
 </div>
 </div>
